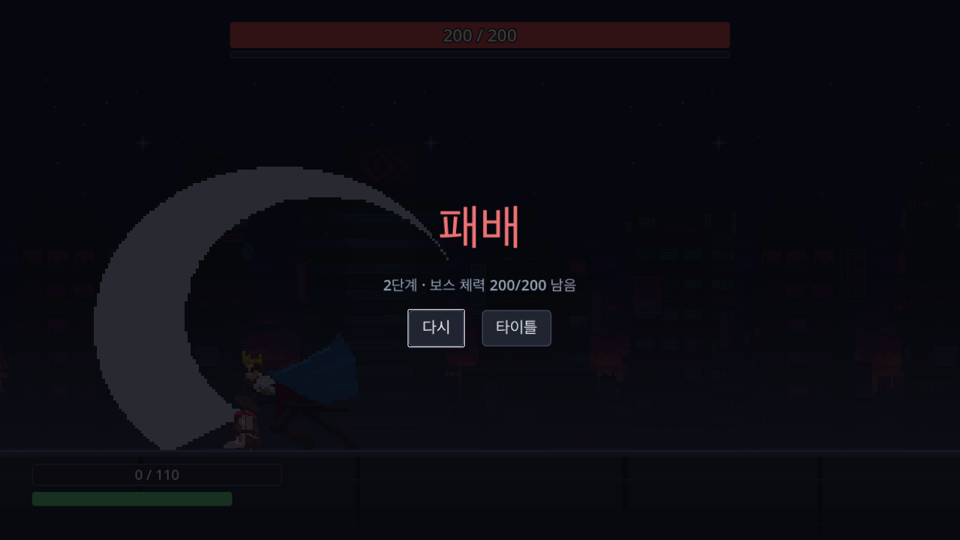
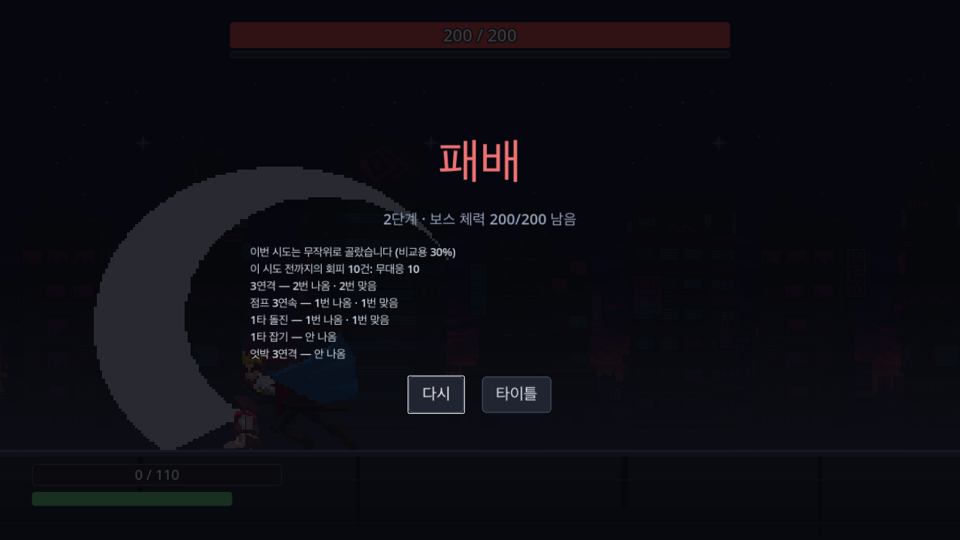
2단계 결과 화면에 패턴 리포트를 띄운다 (#122)

Changed region(s): [[0.25, 0.3852, 0.625, 0.6815], [0.4062, 0.6815, 0.5938, 0.7704], [0.4375, 0.2667, 0.5625, 0.3259]]

diff --git a/overfit/battle/Battle.cs b/overfit/battle/Battle.cs
@@ -77,6 +77,15 @@ public partial class Battle : Node2D
     /// </summary>
     private double[] _features = [];
 
+    /// <summary>
+    /// 이 전투를 세울 때까지의 기록 — 고르기가 읽은 그 기록이다. 리포트(#122)가 회피를 여기서 센다: 끝날 때의 <c>History.Records</c> 에는 이 시도가 이미
+    /// 붙어 있어, 고른 뒤의 회피까지 세게 된다.
+    /// </summary>
+    private IReadOnlyList<AttemptRecord> _prior = [];
+
+    /// <summary>결과 화면의 패턴 리포트 줄들 (#122) — 동전이 있는 단계(2단계)만 있다. 끝날 때 짓고 결과 화면이 띄운다.</summary>
+    private IReadOnlyList<string> _report = [];
+
     /// <summary>판을 사례로 가른다 — 공장과 같은 정의(<see cref="InstanceTracker"/> · #114). 틱마다 보고, 끝날 때 사례와 라벨을 기록이 싣는다.</summary>
     private InstanceTracker _instances = new();
 
@@ -308,6 +317,7 @@ public partial class Battle : Node2D
 
         _setup = stage;
         _features = PlayerFeatures.From(history.Records);
+        _prior = [.. history.Records];
         _instances = new InstanceTracker();
         string arm = stage.Arm is null ? "" : $" arm={stage.Arm}";
         Log.Info("run", $"attempt={_attempt.Number} stage={stage.Stage} seed={_attempt.Seed} picker={stage.PickerId}{arm} history={history.Records.Count}");
@@ -516,6 +526,16 @@ public partial class Battle : Node2D
         {
             Log.Debug("run", $"logged attempt={_attempt.Number} instances={instances.Count} path={path}");
         }
+
+        // 2단계의 패턴 리포트 (#122) — 동전이 있는 단계만. 갈래가 있으면 판을 세울 때 망을 이미 읽었다(부팅이 망 없이는 안 선다).
+        if (_setup.Arm is not null)
+        {
+            _report = PickReport.Lines(_setup, Balance.Network, _prior, _sim.Drawn, instances);
+            foreach (string line in _report)
+            {
+                Log.Debug("report", $"line=\"{line}\"");
+            }
+        }
     }
 
     /// <summary>
@@ -548,7 +568,7 @@ public partial class Battle : Node2D
         // 이긴 판에서 [다시] 는 거짓말이다 — 단계가 이미 올랐으므로 같은 판이 아니다.
         string againLabel = cleared ? "처음부터" : won ? "다음 단계" : "다시";
 
-        _result.Reveal(won, headline, detail, againLabel);
+        _result.Reveal(won, headline, detail, againLabel, string.Join('\n', _report));
     }
 
     private void OnAgain()

diff --git a/overfit/battle/view/BattleResult.cs b/overfit/battle/view/BattleResult.cs
@@ -22,6 +22,7 @@ public partial class BattleResult : Control
 
     private Label _outcome = null!;
     private Label _detail = null!;
+    private Label _report = null!;
     private Button _again = null!;
     private Button _title = null!;
 
@@ -29,6 +30,7 @@ public partial class BattleResult : Control
     {
         _outcome = GetNode<Label>("%Outcome");
         _detail = GetNode<Label>("%Detail");
+        _report = GetNode<Label>("%Report");
         _again = GetNode<Button>("%Again");
         _title = GetNode<Button>("%Title");
 
@@ -46,12 +48,17 @@ public partial class BattleResult : Control
         _title.Pressed += onTitle;
     }
 
-    /// <summary>결과를 띄운다. <paramref name="againLabel"/> 은 이겼는지에 따라 달라진다.</summary>
-    public void Reveal(bool won, string headline, string detail, string againLabel)
+    /// <summary>
+    /// 결과를 띄운다. <paramref name="againLabel"/> 은 이겼는지에 따라 달라진다. <paramref name="report"/> 는 2단계의 패턴 리포트(#122 · 여러 줄)이고,
+    /// 비었으면 그 칸을 접는다 — 빈 Label 도 VBox 의 간격을 먹어 1단계 결과가 아래로 밀린다.
+    /// </summary>
+    public void Reveal(bool won, string headline, string detail, string againLabel, string report)
     {
         _outcome.Text = headline;
         _outcome.AddThemeColorOverride("font_color", won ? _winColor : _loseColor);
         _detail.Text = detail;
+        _report.Text = report;
+        _report.Visible = report.Length > 0;
         _again.Text = againLabel;
         Visible = true;
 
